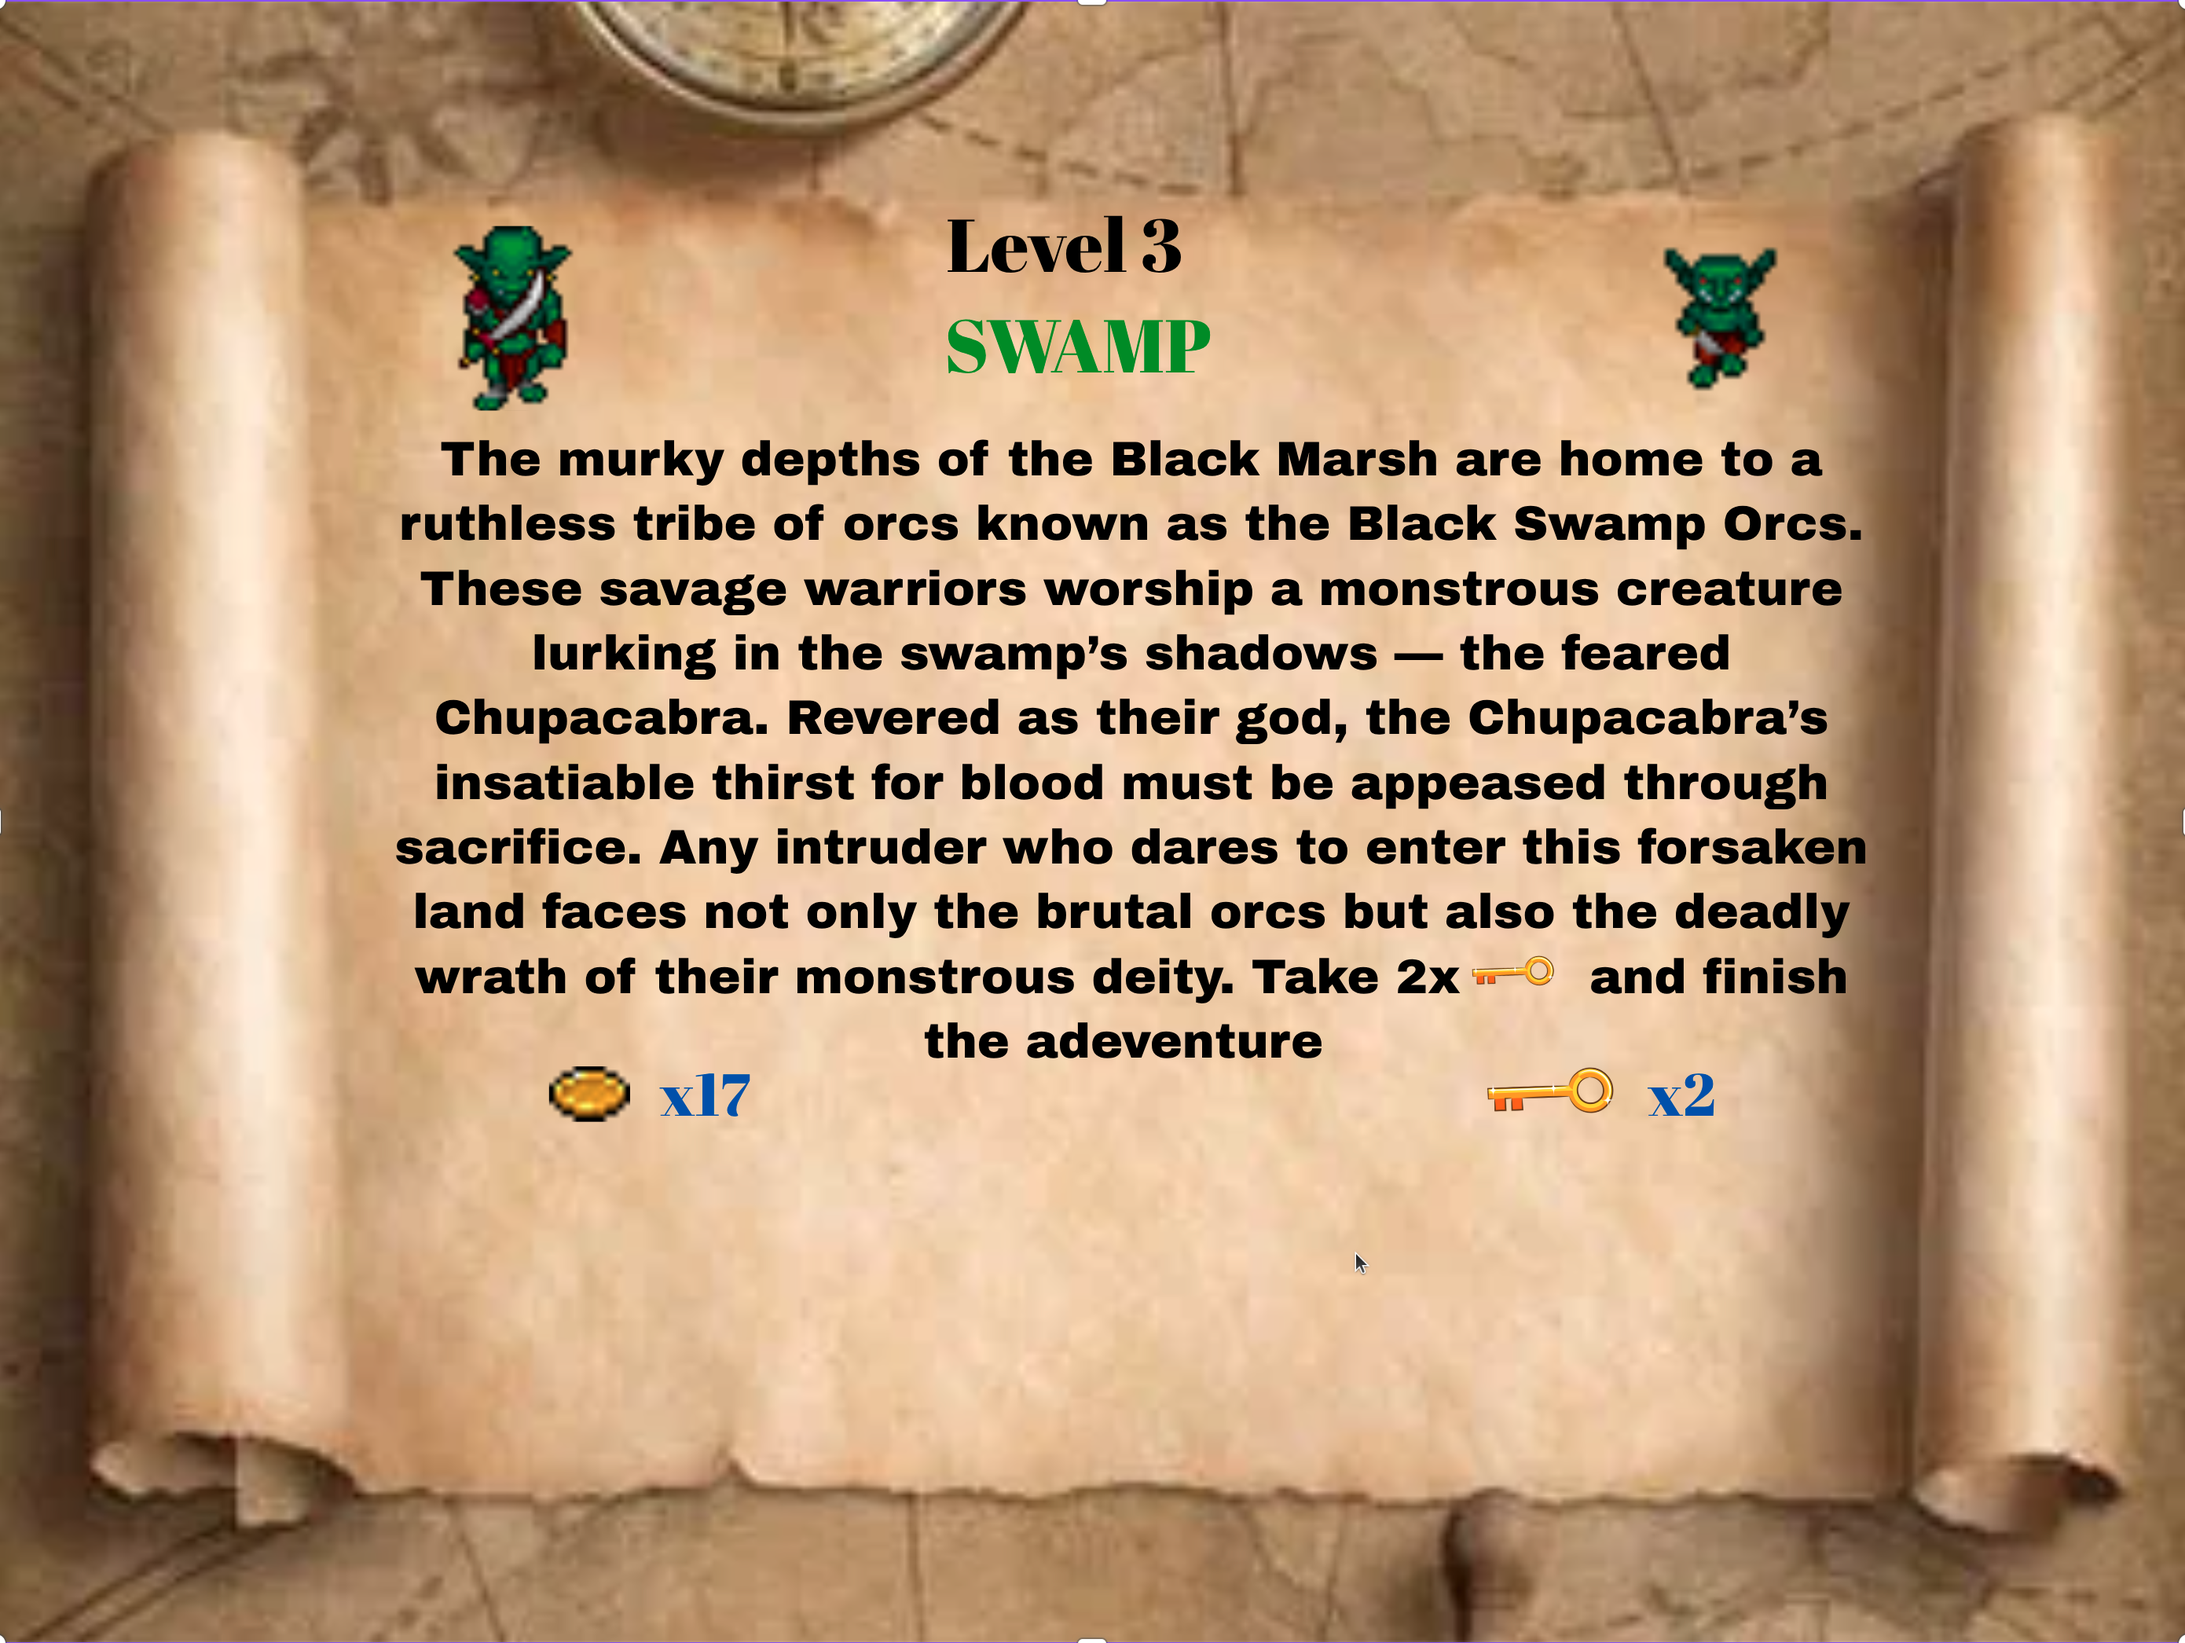
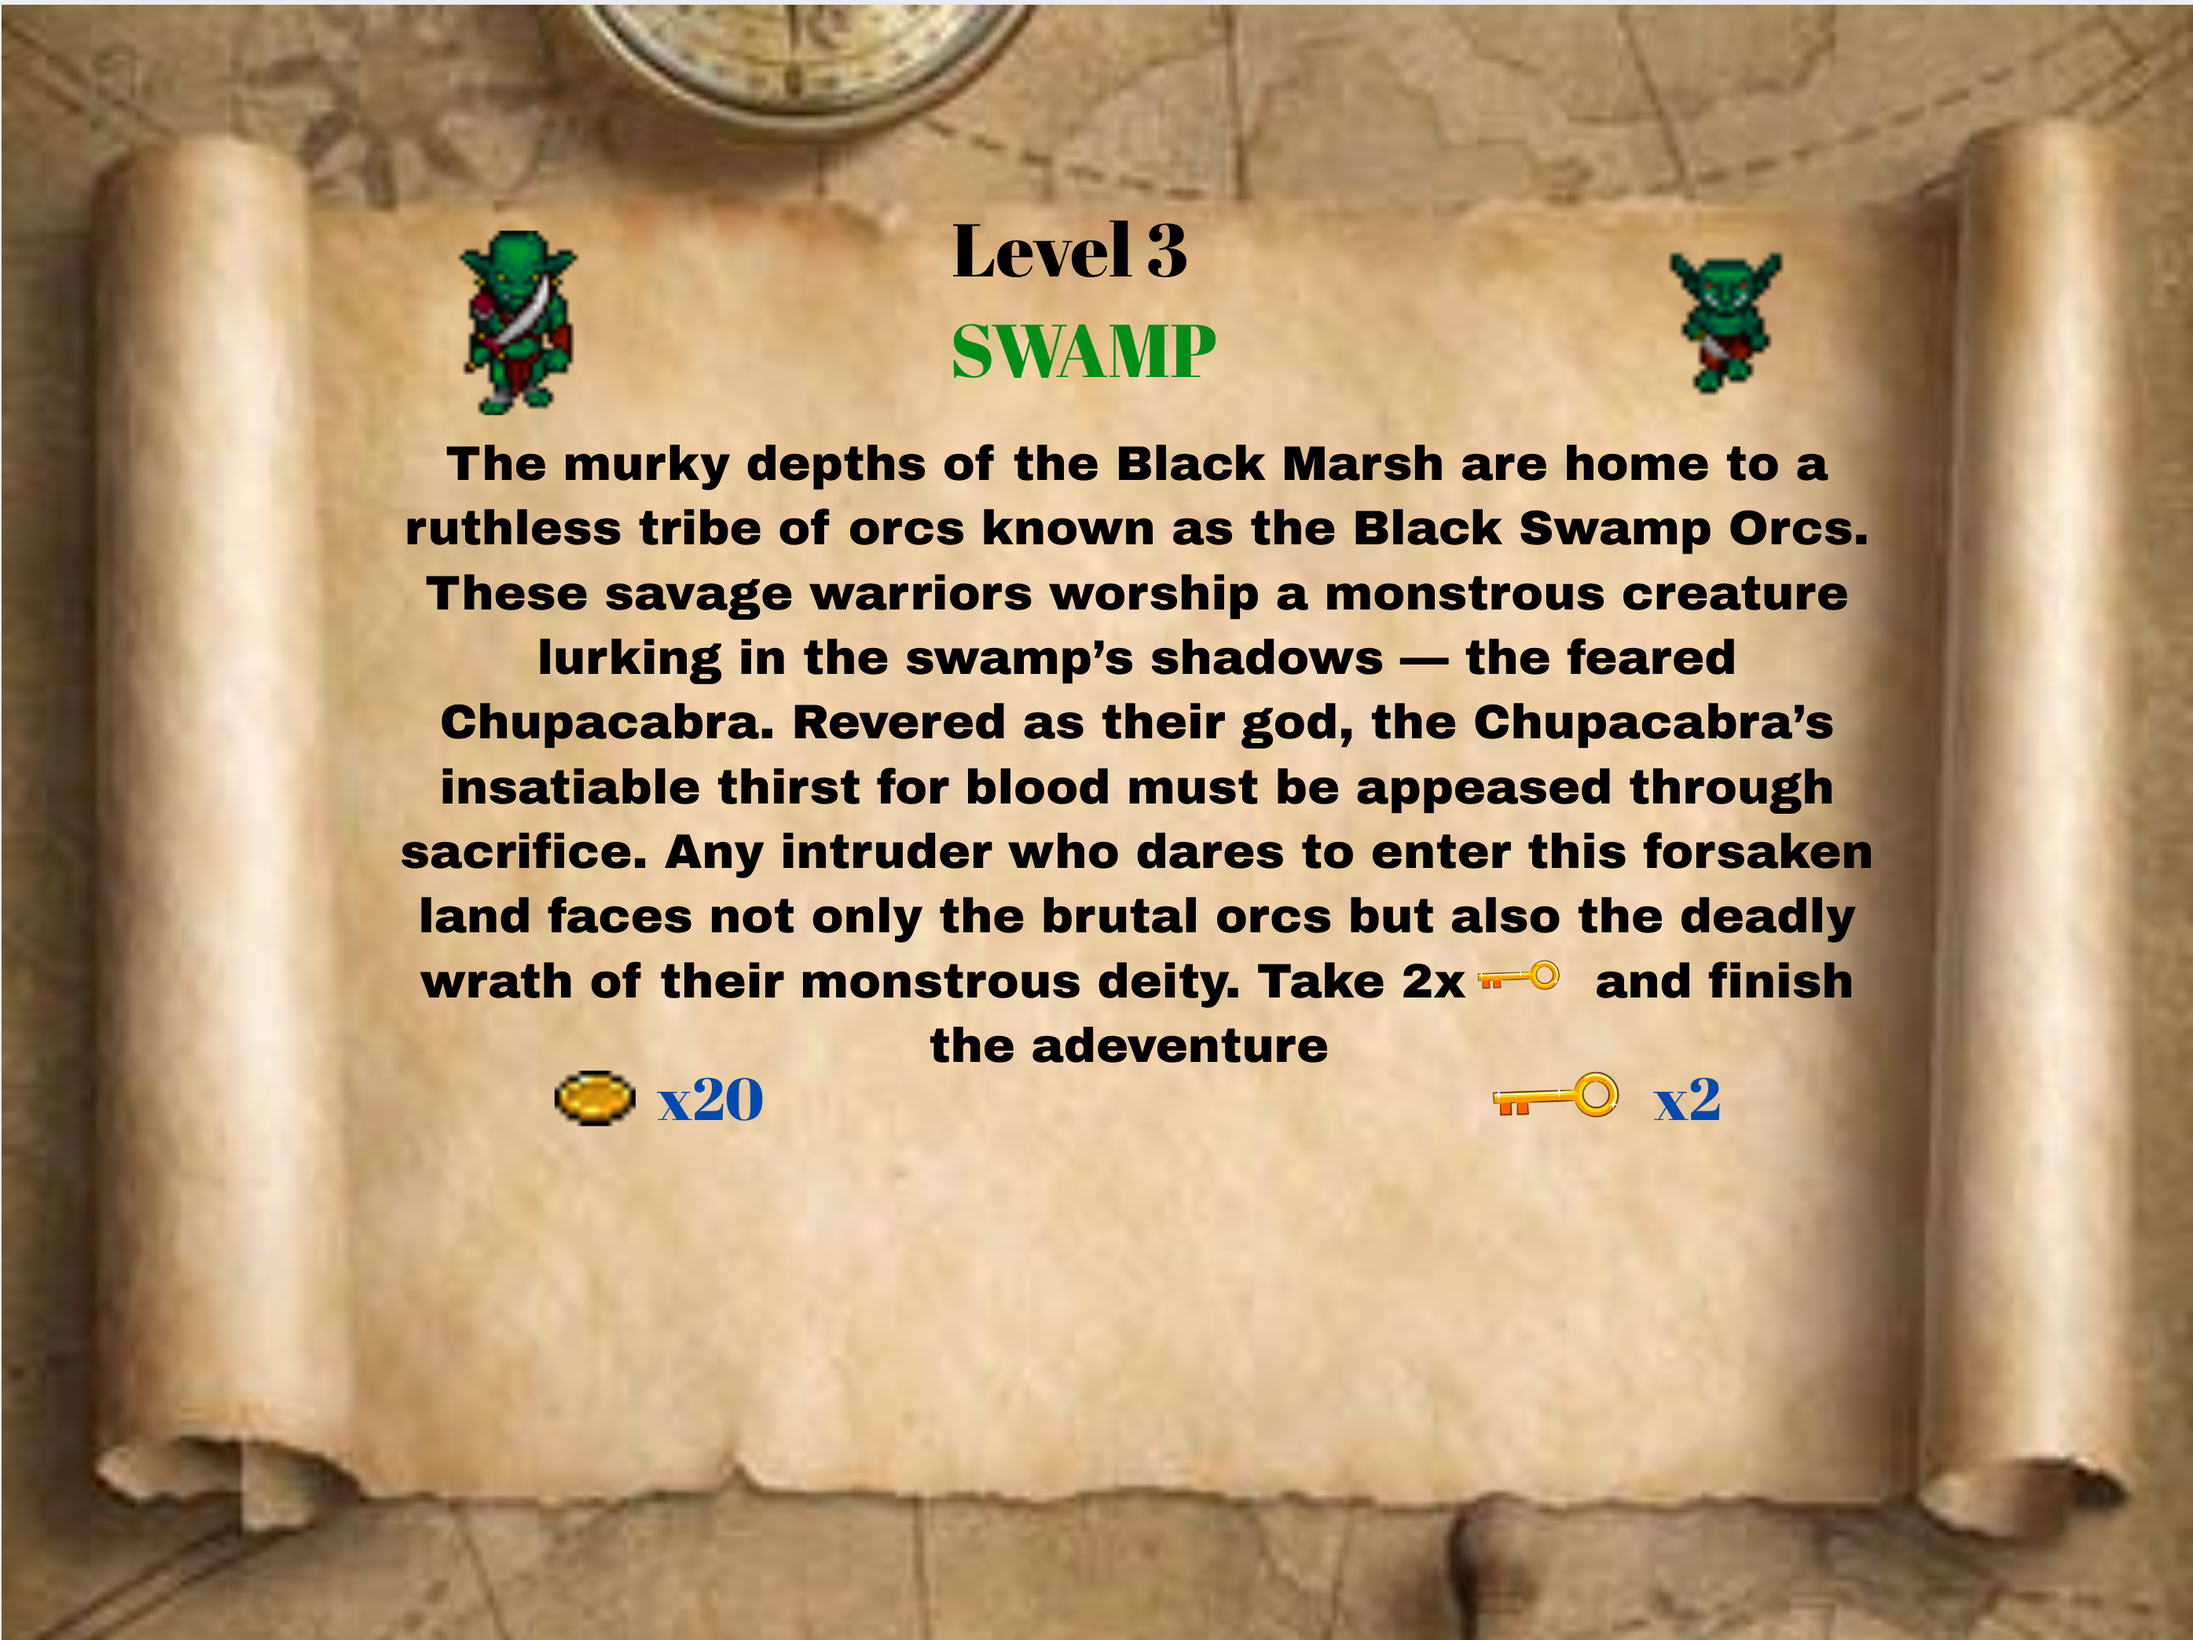
nr_of_coins on level3 bug fixed

diff --git a/src/PaooGame/States/LoadingState.java b/src/PaooGame/States/LoadingState.java
@@ -45,7 +45,7 @@ public class LoadingState extends State{
             @Override
             protected Void doInBackground(){
                 boolean connected = refLink.database.connect();
-                if(refLink.database.isOracleDatabase() == false) {
+                if(!refLink.database.isOracleDatabase()) {
                     errorLoading = true;
                 }
                 else {

diff --git a/src/PaooGame/Entity/Hero.java b/src/PaooGame/Entity/Hero.java
@@ -163,7 +163,7 @@ public class Hero extends Character
             g2d.fillRect(screenX + bounds.x, screenY + bounds.y, bounds.width, bounds.height);
         }
 
-        DrawUI(g2d);
+        //DrawUI(g2d);
     }
 
     private void DrawUI(Graphics2D g2d)

diff --git a/src/PaooGame/States/PlayState.java b/src/PaooGame/States/PlayState.java
@@ -159,6 +159,8 @@ public class PlayState extends State
         int pickedKeys = p.y;
         if(mapNumber == 2)
             nrOfCoins ++;
+        if(mapNumber == 3)
+            nrOfCoins+=3;
 
         coins = pickedCoins;
         keys = pickedKeys;
